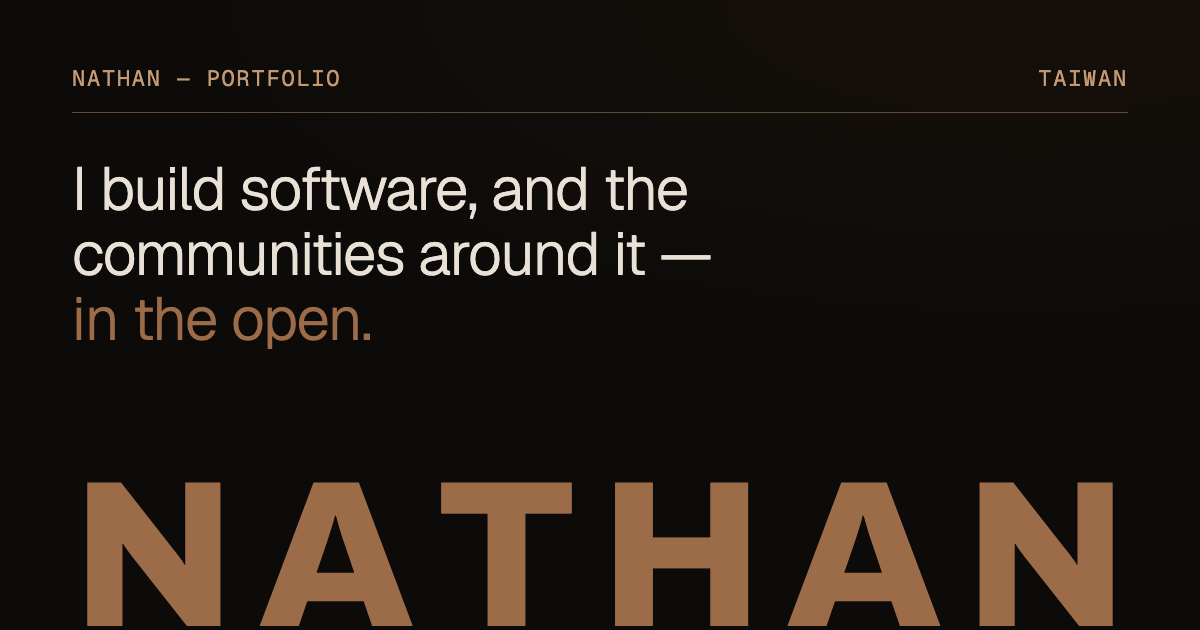
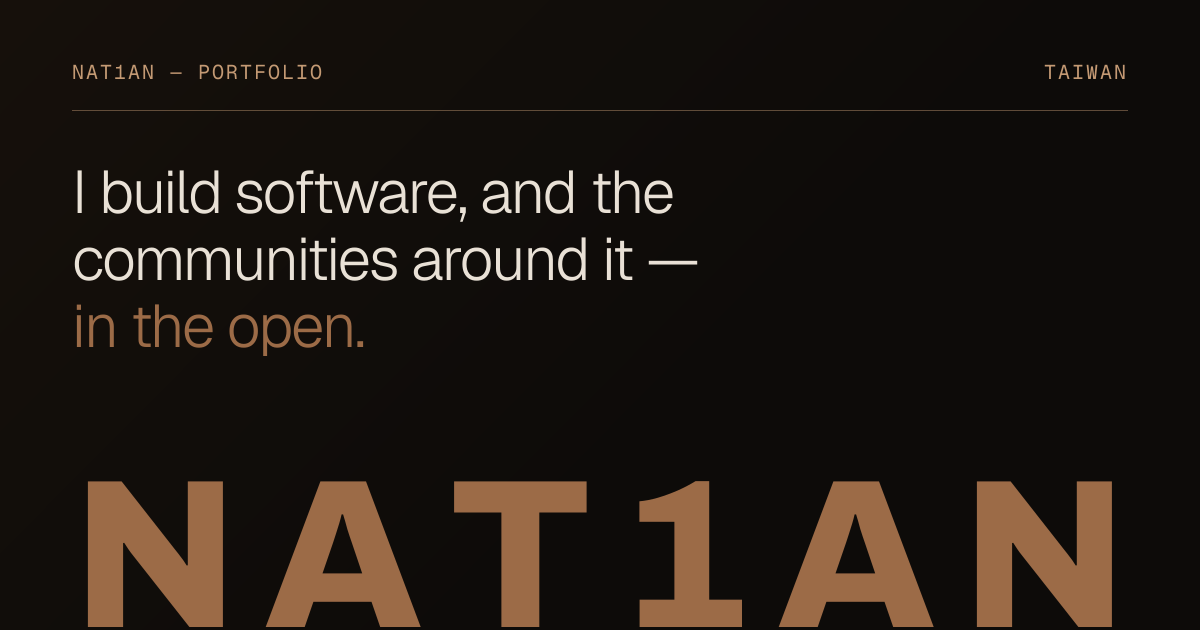
feat(brand): rename the site from Nathan to Nat1an
Use Nat1an as the name in titles, meta descriptions, structured data,
wordmarks and the social card, so search results show it. Keep Nathan
as an alternate name so existing results still link to the site.

- read the hero wordmark from site.name instead of a hard-coded string
- redraw public/og.png with the new name

diff --git a/src/data/site.ts b/src/data/site.ts
@@ -6,26 +6,26 @@ export interface SocialLink {
 }
 
 export const site = {
-  name: "Nathan",
+  name: "Nat1an",
   /** Default page title, kept under 60 characters so search results show it whole. */
-  title: "Nathan — Software Developer & SITCON Organiser in Taiwan",
+  title: "Nat1an — Software Developer & SITCON Organiser in Taiwan",
   /** Job title in the Person structured data. */
   jobTitle: "Software developer and SITCON organiser",
   /** Other names people search for, such as the GitHub handle. */
-  alternateNames: ["Nat1anWasTaken", "nat1an"],
+  alternateNames: ["Nat1anWasTaken", "Nathan"],
   description:
-    "Nathan builds software, and the communities around it, in the open. Computer science student, percussionist and SITCON organiser in Taiwan.",
+    "Nat1an builds software, and the communities around it, in the open. Computer science student, percussionist and SITCON organiser in Taiwan.",
   /** Social card shown when the site is shared, served from `public/`. */
   ogImage: {
     src: "/og.png",
-    alt: "Nathan — I build software, and the communities around it, in the open.",
+    alt: "Nat1an — I build software, and the communities around it, in the open.",
     width: 1200,
     height: 630,
   },
   blog: {
-    title: "Nathan's blog",
+    title: "Nat1an's blog",
     description:
-      "Notes from Nathan on building software and communities, in English and Chinese.",
+      "Notes from Nat1an on building software and communities, in English and Chinese.",
   },
   email: "me@nath.tw",
   calendar: { href: "https://nath.tw/cal", label: "nath.tw/cal" },

diff --git a/src/scripts/scenes/footer.ts b/src/scripts/scenes/footer.ts
@@ -16,7 +16,7 @@ import {
 } from "../../lib/particles/shapes/text";
 import { Scene } from "../scene";
 
-const WORD = [..."NATHAN"];
+const WORD = [..."NAT1AN"];
 
 /** Below this width the letters sit in one row along the bottom instead of a staircase. */
 const STAIRCASE_MIN_WIDTH = 760;
@@ -92,7 +92,7 @@ async function loadFont(font: TextFont) {
 }
 
 /**
- * The footer's "NATHAN", made of particles sampled from the glyphs. They gather from
+ * The footer's "NAT1AN", made of particles sampled from the glyphs. They gather from
  * random positions, drift gently in place, and scatter from the pointer.
  */
 export class FooterScene extends Scene {

diff --git a/src/styles/global.css b/src/styles/global.css
@@ -48,7 +48,7 @@
   --text-statement: clamp(44px, 7vw, 104px);
   --text-statement--line-height: 1;
   --text-statement--letter-spacing: -0.045em;
-  /* The justified NATHAN wordmark spans the container, so it scales with it. */
+  /* The justified NAT1AN wordmark spans the container, so it scales with it. */
   --text-wordmark: clamp(72px, 20vw, calc(var(--container-page) * 0.214));
   --text-wordmark--line-height: 0.82;
   --text-wordmark--letter-spacing: -0.04em;
